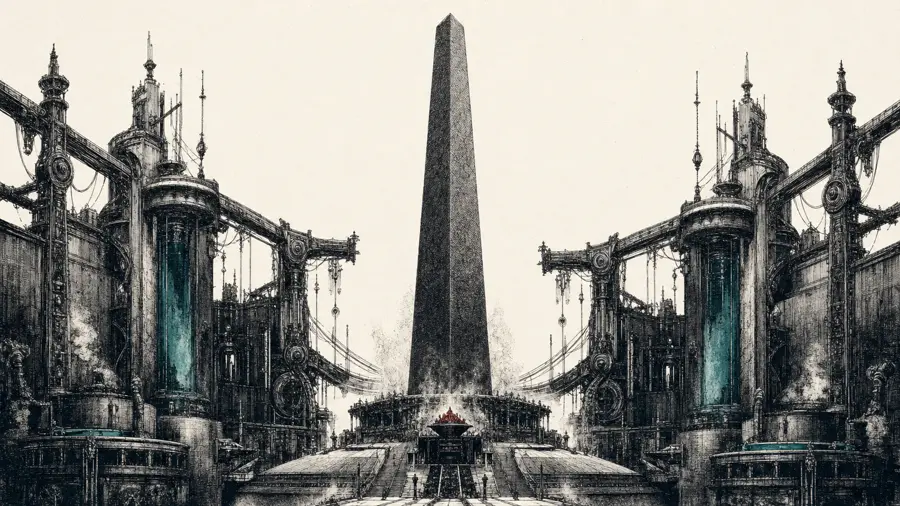
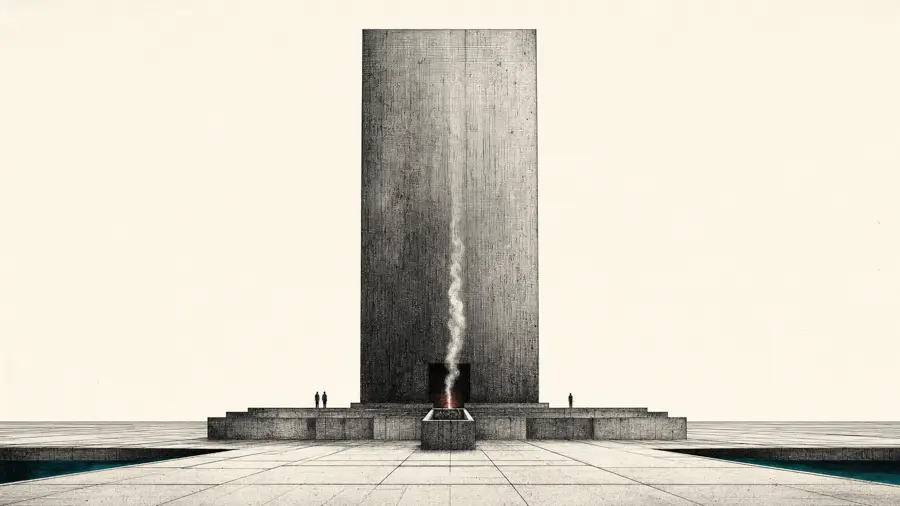
Design pass: cut redundant Four functions section, lead plate + 2x2 plate grid, new austere supply plate, Task Node alignment, mobile list fix

diff --git a/layouts/index.html b/layouts/index.html
@@ -40,22 +40,6 @@
     </div>
   </section>
 
-  <section class="sec" aria-labelledby="does-title">
-    <div class="wrap">
-      <div class="sec-head">
-        <span class="label">What it does</span>
-        <h2 class="display d-l" id="does-title">Four functions. One ledger.</h2>
-        <p>Post Fiat is a settlement layer for financial exposure. Everything it does serves one loop: represent value precisely, move it privately, keep the base money hard, and point collective intelligence at the result.</p>
-      </div>
-      <div class="grid4">
-        <div><span class="n">01</span><h3>Represent portfolios trustlessly</h3><p>A NAVCoin is a floating-value unit. The ledger issues it only against a finalized, proven net asset value: reserves, supply and methodology each open to inspection.</p></div>
-        <div><span class="n">02</span><h3>Swap into them privately</h3><p>Asset-Orchard settles both legs of an exchange in one atomic, shielded transition. Per-asset conservation is enforced inside the proof; positions stay private.</p></div>
-        <div><span class="n">03</span><h3>Maintain a fixed supply</h3><p>Native PFT has a fixed genesis supply. Every fee burns. There is no validator subsidy and no protocol treasury to mint from.</p></div>
-        <div><span class="n">04</span><h3>Run an intelligence network</h3><p>Task Node routes work to pseudonymous contributors and their agents, verifies the evidence, and pays for useful output: a community intelligence layer.</p></div>
-      </div>
-    </div>
-  </section>
-
   <section class="sec" aria-labelledby="arch-title">
     <div class="wrap">
       <div class="sec-head">
@@ -64,7 +48,7 @@
         <p>The chain keeps the XRP category: known validators, deterministic finality, a fixed-supply native asset, fee burn, no validator subsidy. It changes what XRP left unsolved.</p>
       </div>
 
-      <article class="feature">
+      <article class="feature feature-lead">
         <figure><img src="/images/ink/navcoin-900.webp" srcset="/images/ink/navcoin-900.webp 900w, /images/ink/navcoin.webp 1800w" sizes="(max-width:900px) 100vw, 640px" alt="Ink plate: a precision balance in a vault weighing many holdings against one teal disc" loading="lazy" width="900" height="506"><figcaption>Plate I · The NAVCoin</figcaption></figure>
         <div>
           <h3>Value, proven every epoch.</h3>
@@ -72,42 +56,40 @@
           <p class="proof">A666 opened at NAV $1.000000 against $31,386.19 of verified net assets, with a 20 m 12 s Ethereum mainnet round trip. <a href="{{ (site.GetPage "blog/economics-of-the-navcoin").RelPermalink }}">Economics of the NAVCoin →</a></p>
         </div>
       </article>
-
-      <article class="feature">
-        <figure><img src="/images/ink/swap-900.webp" srcset="/images/ink/swap-900.webp 900w, /images/ink/swap.webp 1800w" sizes="(max-width:900px) 100vw, 640px" alt="Ink plate: two ingots exchanged on rails through a sealed black chamber" loading="lazy" width="900" height="506"><figcaption>Plate II · The private swap</figcaption></figure>
-        <div>
+      <div class="cards">
+        <article class="card">
+          <figure><img src="/images/ink/swap-900.webp" srcset="/images/ink/swap-900.webp 900w, /images/ink/swap.webp 1800w" sizes="(max-width:900px) 100vw, 600px" alt="Ink plate: two ingots exchanged on rails through a sealed black chamber" loading="lazy" width="900" height="506"><figcaption>Plate II · The private swap</figcaption></figure>
+          <div class="card-body">
           <h3>Size moves in private.</h3>
           <p>Asset-Orchard extends Zcash Orchard to typed assets. A swap spends two notes and creates two under one Halo2 proof, with asset tags bound inside the commitments so one asset's surplus can never pay another's deficit.</p>
           <p class="proof">pfUSDC → pNOK private swap: one atomic transition, 5.78 s to prove, 66 ms to verify. <a href="{{ (site.GetPage "blog/private-fx-executed-pnok").RelPermalink }}">Read the run →</a></p>
-        </div>
-      </article>
-
-      <article class="feature">
-        <figure><img src="/images/ink/quantum-900.webp" srcset="/images/ink/quantum-900.webp 900w, /images/ink/quantum.webp 1800w" sizes="(max-width:900px) 100vw, 640px" alt="Ink plate: a lattice structure protecting a teal key above a disassembled older lock" loading="lazy" width="900" height="506"><figcaption>Plate III · The lattice</figcaption></figure>
-        <div>
+          </div>
+        </article>
+        <article class="card">
+          <figure><img src="/images/ink/quantum-900.webp" srcset="/images/ink/quantum-900.webp 900w, /images/ink/quantum.webp 1800w" sizes="(max-width:900px) 100vw, 600px" alt="Ink plate: a lattice structure protecting a teal key above a disassembled older lock" loading="lazy" width="900" height="506"><figcaption>Plate III · The lattice</figcaption></figure>
+          <div class="card-body">
           <h3>Post-quantum signatures from genesis.</h3>
           <p>Accounts and validators sign with ML-DSA-65, the NIST FIPS 204 lattice standard, with domain-separated contexts for transactions, block certificates, bridge witnesses and admissions. The pfUSDC bridge proves that post-quantum finality inside a succinct proof.</p>
           <p class="proof">ML-DSA finality is verified inside the pfUSDC bridge's succinct proofs. <a href="{{ (site.GetPage "blog/pfusdc-trustless-bridge").RelPermalink }}">pfUSDC bridge →</a></p>
-        </div>
-      </article>
-
-      <article class="feature">
-        <figure><img src="/images/ink/cobalt-900.webp" srcset="/images/ink/cobalt-900.webp 900w, /images/ink/cobalt.webp 1800w" sizes="(max-width:900px) 100vw, 640px" alt="Ink plate: a ring of monoliths bound by threads to a sealed document" loading="lazy" width="900" height="506"><figcaption>Plate IV · Cobalt</figcaption></figure>
-        <div>
+          </div>
+        </article>
+        <article class="card">
+          <figure><img src="/images/ink/cobalt-900.webp" srcset="/images/ink/cobalt-900.webp 900w, /images/ink/cobalt.webp 1800w" sizes="(max-width:900px) 100vw, 600px" alt="Ink plate: a ring of monoliths bound by threads to a sealed document" loading="lazy" width="900" height="506"><figcaption>Plate IV · Cobalt</figcaption></figure>
+          <div class="card-body">
           <h3>Old rules judge new rules.</h3>
           <p>Cobalt, the protocol Ripple published in 2018 and never shipped, makes validator trust protocol state. Every change to who validates is a typed object, ratified by a quorum of the current registry before it takes effect. AI models read the admission evidence; the current registry decides.</p>
           <p class="proof">Six adversarial experiments: five-of-six ratifies, four-of-six fails. <a href="{{ (site.GetPage "blog/cobalt-further-evaluation").RelPermalink }}">Cobalt evaluation →</a></p>
-        </div>
-      </article>
-
-      <article class="feature">
-        <figure><img src="/images/ink/supply-900.webp" srcset="/images/ink/supply-900.webp 900w, /images/ink/supply.webp 1800w" sizes="(max-width:900px) 100vw, 640px" alt="Ink plate: a monolithic obelisk above a furnace where fees burn" loading="lazy" width="900" height="506"><figcaption>Plate V · Fixed supply</figcaption></figure>
-        <div>
+          </div>
+        </article>
+        <article class="card">
+          <figure><img src="/images/ink/supply-900.webp" srcset="/images/ink/supply-900.webp 900w, /images/ink/supply.webp 1800w" sizes="(max-width:900px) 100vw, 600px" alt="Ink plate: a plain monolith above a furnace where fees burn to ash" loading="lazy" width="900" height="506"><figcaption>Plate V · Fixed supply</figcaption></figure>
+          <div class="card-body">
           <h3>Hard money underneath risk assets.</h3>
           <p>Native PFT is fixed at genesis and every fee burns, so supply only falls. Risk assets settle on hard money.</p>
           <p class="proof">Post Fiat, Canton and XRP: the economic argument. <a href="{{ (site.GetPage "blog/postfiat-canton-xrp").RelPermalink }}">Read the position paper →</a></p>
-        </div>
-      </article>
+          </div>
+        </article>
+      </div>
     </div>
   </section>
 
@@ -158,7 +140,7 @@
     <div class="wrap"><div class="btns mt-l"><a class="btn" href="https://tasknode.postfiat.org" rel="noopener">Join Task Node <span class="ar">→</span></a><a class="btn" href="/agents/">Connect your agent</a><a class="btn" href="https://discord.gg/U6HjgDSmhR" rel="noopener">Discord</a></div></div>
   </section>
 
-  <section class="sec" aria-labelledby="status-title">
+  <section class="sec sec-tight" aria-labelledby="status-title">
     <div class="wrap">
       <div class="sec-head">
         <span class="label">Network</span>

diff --git a/assets/css/ink.css b/assets/css/ink.css
@@ -457,7 +457,7 @@ h1,h2,.display{text-wrap:balance}
 .toc details > summary{width:100%;gap:12px}
 .toc details > summary::after{content:"▾";font-size:13px;transition:transform .15s}
 .toc details[open] > summary::after{content:"▾";transform:rotate(180deg)}
-@media (min-width:981px){.grid4 h3{min-height:2.16em}}
+
 .hero .plate{left:26%;background-size:contain;background-repeat:no-repeat;background-position:right center}
 @media (max-width:820px){
   .sec{padding:56px 0}
@@ -499,3 +499,30 @@ h1,h2,.display{text-wrap:balance}
   .kicker{font-size:11px;letter-spacing:.08em}
 }
 @media (min-width:821px){.hero:not(.tn-hero) .plate{background-position:78% center}}
+
+/* Architecture: one lead plate, then a 2x2 grid of plates */
+.feature-lead{grid-template-columns:1.35fr 1fr;border-top:1px solid var(--ink)}
+.feature-lead h3{font-size:clamp(36px,4vw,56px)}
+.cards{display:grid;grid-template-columns:1fr 1fr;gap:56px 48px;padding-top:56px;border-top:1px solid var(--rule)}
+.card{display:flex;flex-direction:column;gap:18px}
+.card figure{margin:0;border:1px solid var(--rule);background:var(--paper-2)}
+.card figure img{width:100%;aspect-ratio:16/9;object-fit:cover}
+.card figcaption{font-family:var(--mono);font-size:12px;letter-spacing:.1em;text-transform:uppercase;color:var(--ink-3);padding:9px 12px;border-top:1px solid var(--rule)}
+.card h3{font-family:var(--display);font-size:clamp(28px,2.6vw,36px);line-height:1.06;margin:0 0 12px}
+.card p{color:var(--ink-2);margin:0 0 12px;font-size:17.5px;line-height:1.6}
+.card .proof{font-family:var(--mono);font-size:13px;line-height:1.6;color:var(--ink-2);border-left:2px solid var(--teal);padding:2px 0 2px 14px;margin-top:16px}
+.card .proof a{color:var(--ink)}
+@media (max-width:900px){.feature-lead{grid-template-columns:1fr}.cards{grid-template-columns:1fr;gap:48px}}
+.sec-tight{padding:clamp(48px,6vw,80px) 0}.sec-tight .sec-head{margin-bottom:28px}
+/* Task Node: body shares the page's left edge; plate kept clear of the headline */
+.tn-body{padding:0 0 120px}
+.tn-body .prose{max-width:var(--read)}
+.tn-body .prose h2:first-child{margin-top:0}
+@media (min-width:821px){.tn-hero .plate{left:46%;background-position:center}}
+
+/* Final mobile overrides (keep last) */
+@media (max-width:720px){
+  .index a{grid-template-columns:1fr;gap:6px}
+  .index .go{display:none}
+}
+.tn-hero + .sec{border-bottom:0;padding-bottom:40px}

diff --git a/layouts/page/task_node.html b/layouts/page/task_node.html
@@ -28,7 +28,7 @@
       </div>
     </div>
   </section>
-  <div class="doc-layout solo">
+  <div class="wrap tn-body">
     <article class="prose">
       {{ .Content }}
       <div class="btns mt-l"><a class="btn solid" href="https://tasknode.postfiat.org/" rel="noopener">Open Task Node <span class="ar">→</span></a><a class="btn" href="/agents/">Connect your agent</a></div>

diff --git a/tools/site-critic/ink_plates.py b/tools/site-critic/ink_plates.py
@@ -42,6 +42,7 @@ PLATES = {
     "swap": "An engineering engraving of a sealed black monolithic exchange chamber in a vast empty hall. Two parallel conveyor rails enter from opposite sides, each carrying one sealed ingot of a different shape; the same rails leave carrying the two ingots swapped. The chamber is wrapped in dense crosshatched shadow; a thin teal seam of light marks the atomic join. One small oxblood seal on the chamber. No people.",
     "quantum": "An immense lattice: a crystalline cage of interlocking engraved struts in deep perspective, like a Piranesi prison rebuilt as a lattice-based cryptographic structure, protecting a small teal key at its center. In the foreground, the neat fragments of an older circular dial-lock lie disassembled on the floor like components on an engineer's bench. No people, no organic forms, no red.",
     "cobalt": "Seven tall plain monolithic slabs arranged in a precise ring on a geometric stone floor, seen from a high oblique angle, each with a single small teal aperture, all connected by taut ink threads to a small sealed document with an oxblood wax seal hovering at the center. A smaller new slab stands at the edge of the ring awaiting admission. Severe, ceremonial, architectural. No people.",
+    "supply": "A single monumental plain monolith of fixed dimensions standing alone in a vast empty geometric plaza, drawn as a severe architectural elevation in one-point perspective. At its base a low, wide stone furnace in which small tokens are fed and burn to fine ash that rises as a thin line of smoke and disappears into empty sky. Nothing is ever added to the monolith. Severe symmetry, stark negative space, two or three tiny silhouetted people at the base for scale.",
     "hive": "Seen from high above: a vast engraved plaza laid out like a circuit, with hundreds of small identical work-cells and desks arranged in concentric rings, each linked by fine ink threads to a central cellular hive-tower of hexagonal chambers; a few threads glow teal. Tiny anonymous silhouettes at the desks, too small for detail. Dense, ordered, coordinated, like an engraving of a city plan.",
 }
 
